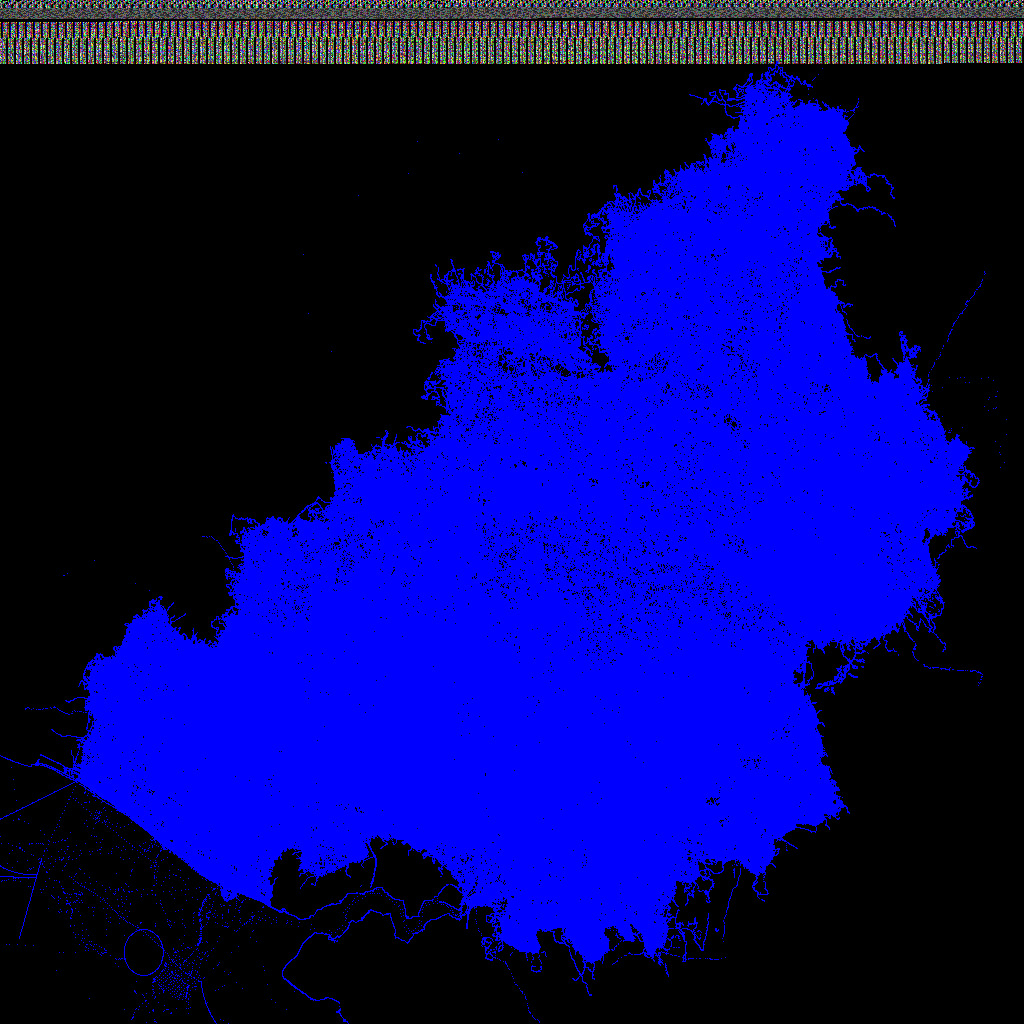
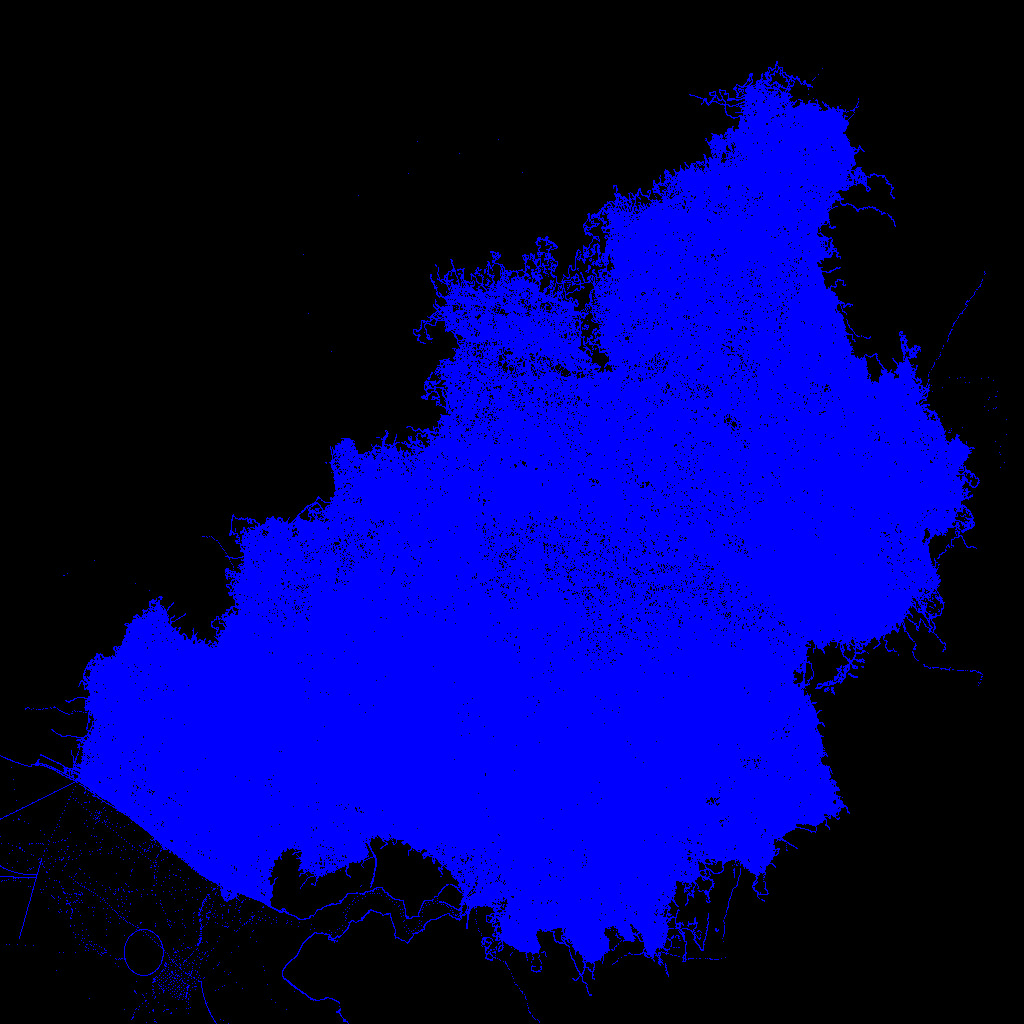
Proper class init

Changed region(s): [[0.0, 0.0, 1.0, 0.0625]]

diff --git a/ImageMap.cpp b/ImageMap.cpp
@@ -31,6 +31,10 @@ ImageMap::ImageMap(size_t width, size_t height):
 	mWidth(width), mHeight(height),
 	mPixels(new struct Color[width * height])
 {
+    for(size_t ctr(0); ctr < width * height; ++ctr) {
+    auto& pixel = mPixels[ctr];
+    pixel.r = pixel.g = pixel.b = 0;
+  }
 }
 
 ImageMap::~ImageMap()
@@ -84,7 +88,7 @@ bool ImageMap::saveImage(const char* name)
 	output << "P3" << endl;
 	output << mWidth << " ";
 	output << mHeight << " ";
-	output << 256 << endl;
+	output << 255 << endl;
 
 	for(size_t y(0); y < mHeight; y++)
 	{
@@ -95,8 +99,8 @@ bool ImageMap::saveImage(const char* name)
 			output << (unsigned int)c.r << " ";
 			output << (unsigned int)c.g << " ";
 			output << (unsigned int)c.b << " ";
+	  	output << endl;
 		}
-		output << endl;
 	}
 	return output.good();
 }
